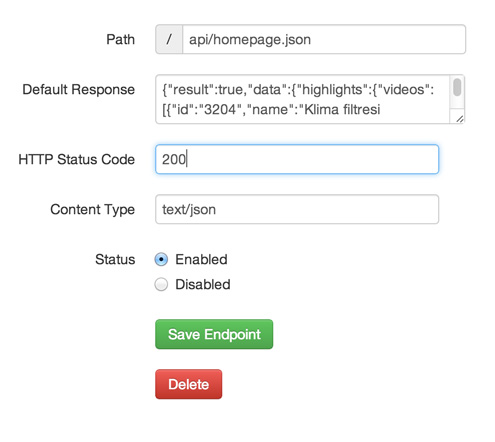
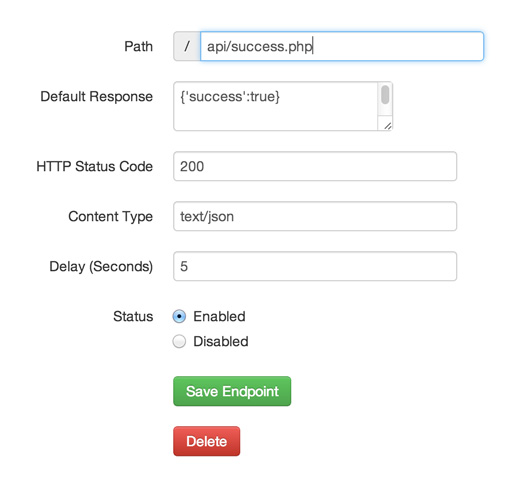
update screenshot + form typo

Changed region(s): [[0.0303, 0.2941, 0.9091, 0.9412], [0.0303, 0.0294, 0.9697, 0.2647], [0.8788, 0.1765, 0.9394, 0.2941]]

diff --git a/views/addEndpoint.html b/views/addEndpoint.html
@@ -122,7 +122,7 @@
                     </div>
 
                     <div class="control-group">
-                        <label class="control-label" for="delay">Delay</label>
+                        <label class="control-label" for="delay">Delay (Seconds)</label>
                         <div class="controls">
                             <input id="delay" name="delay" class="input-xlarge" placeholder="1" type="text" value="<%=(locals.delay)?delay:''%>" required="true" >
                         </div>
